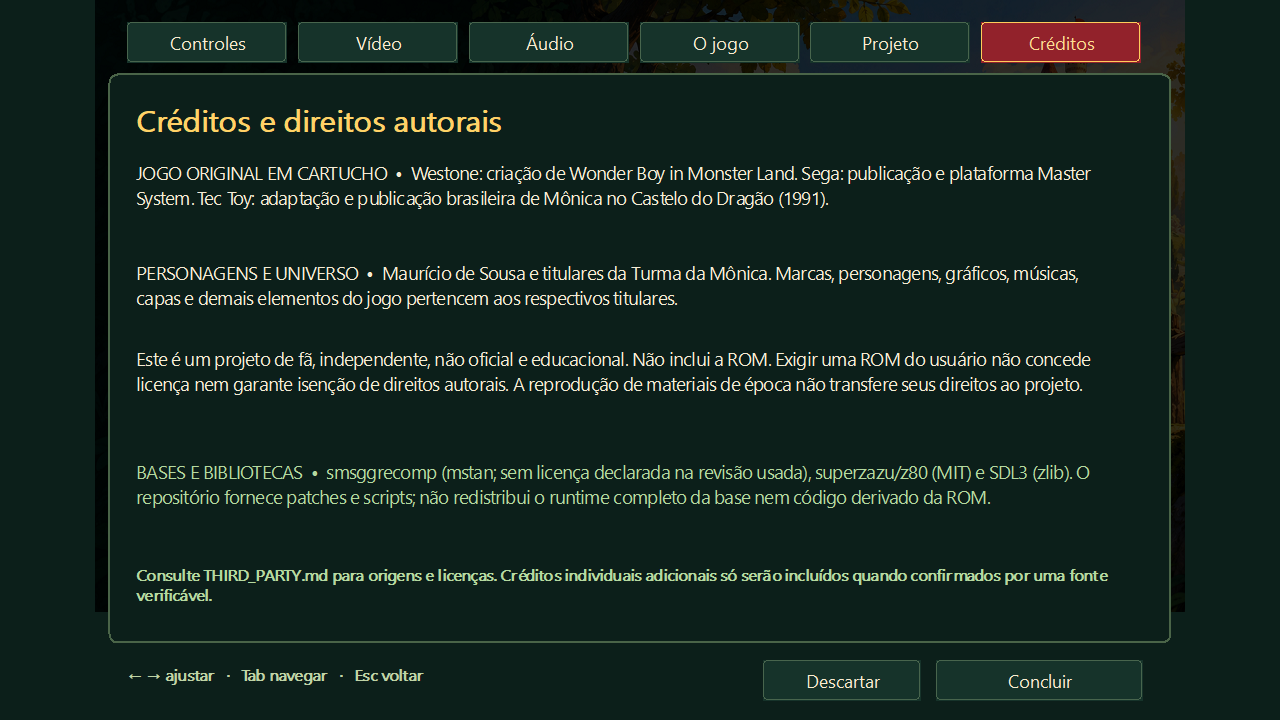
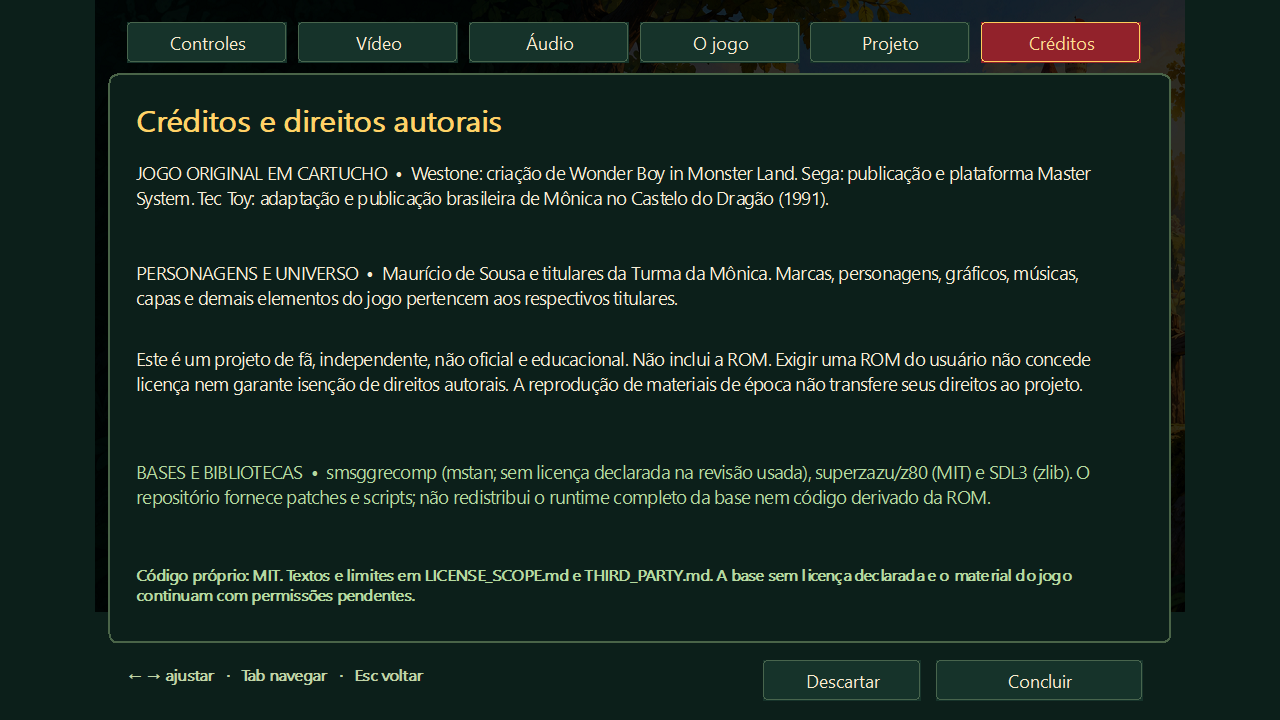
Cover directional input paths and document license scope and unresolved permissions

Changed region(s): [[0.0938, 0.7944, 0.875, 0.8556]]

diff --git a/src/app.c b/src/app.c
@@ -34,6 +34,7 @@ static HBRUSH background;
 static wchar_t rom_path[32768], root[32768], ini[32768], pending_load[32768];
 static Replay movie;
 static int running, paused, start_requested, quitting, restart_requested, slot=1, full_screen;
+static int session_ended;
 
 
 static uint32_t framebuffer[256*192];
@@ -254,7 +255,7 @@ static LRESULT CALLBACK window_proc(HWND hwnd,UINT msg,WPARAM wp,LPARAM lp){
     case WM_COMMAND:
         switch(LOWORD(wp)){
         case OPEN_ROM:if(!running)choose_rom();break;
-        case PLAY:if(!running && rom_ready){rom_ready=validate_rom(rom_path);if(rom_ready)start_requested=1;else navigation();}break;
+        case PLAY:if(!running && rom_ready){rom_ready=validate_rom(rom_path);if(rom_ready){pending_load[0]=0;start_requested=1;}else navigation();}break;
         case PAUSE:if(running)set_paused(!paused);break;
         case SAVE:if(running){set_paused(1);save_game();}break;
         case LOAD:if(running)set_paused(1);load_game();break;
@@ -393,13 +394,14 @@ int WINAPI wWinMain(HINSTANCE instance,HINSTANCE previous,PWSTR command,int show
     }else{ShowWindow(window,show);UpdateWindow(window);if(cfg.fullscreen)toggle_fullscreen();SetFocus(controls[rom_ready?0:4]);}
     while(!quitting){
         pump();if(start_requested){
+            if(session_ended){start_requested=0;if(restart_process())quitting=1;else message(L"Não foi possível iniciar uma nova sessão.");continue;}
             start_requested=0;if(!validate_rom(rom_path)){message(L"Escolha a ROM correta para iniciar.");continue;}
             if(pending_load[0]&&!replay_load(pending_load,&movie)){message(L"Save inválido ou incompatível.");pending_load[0]=0;continue;}
             if(!glue_load_rom_wide(rom_path)){message(L"Falha ao ler a ROM.");continue;}
             for(int i=0;i<MENU_COUNT;i++)ShowWindow(controls[i],SW_HIDE);EnableMenuItem(menu,OPEN_ROM,MF_BYCOMMAND|MF_GRAYED);EnableMenuItem(menu,PLAY,MF_BYCOMMAND|MF_GRAYED);
             SetFocus(window);running=1;paused=0;glue_init(false,0);glue_require_native(true);glue_set_audio_sink(audio_sink);glue_set_frame_callback(frame);audio_open();QueryPerformanceCounter(&deadline);glue_run_step();audio_close();running=0;
             if(restart_requested){if(restart_process())quitting=1;else{message(L"Não foi possível reiniciar para carregar o save.");restart_requested=0;}}
-            else if(!quitting){message(glue_dispatch_miss_count()?L"Foi encontrado um trecho ainda não recompilado. A sessão foi interrompida. Consulte runtime.log para completar a recompilação.":L"A execução terminou. Reinicie o aplicativo para uma nova sessão.");quitting=1;}
+            else if(!quitting){session_ended=1;paused=0;navigation();InvalidateRect(window,NULL,FALSE);message(glue_dispatch_miss_count()?L"Este trecho ainda não foi traduzido. A partida foi interrompida e os detalhes foram registrados em runtime.log. Seus saves existentes foram preservados.":L"A partida terminou. Você pode iniciar uma nova sessão pelo menu.");}
         }Sleep(10);
     }
     audio_close();replay_free(&movie);KillTimer(window,1);DestroyWindow(window);theme_close();if(present_dc){SelectObject(present_dc,present_old);DeleteObject(present_bitmap);DeleteDC(present_dc);}DeleteObject(font);DeleteObject(title_font);DeleteObject(background);input_close();return 0;

diff --git a/src/preferences.c b/src/preferences.c
@@ -232,7 +232,7 @@ static LRESULT CALLBACK procedure(HWND hwnd,UINT msg,WPARAM wp,LPARAM lp){
             draw_text(dc,40,253,950,68,L"PERSONAGENS E UNIVERSO  •  Maurício de Sousa e titulares da Turma da Mônica. Marcas, personagens, gráficos, músicas, capas e demais elementos do jogo pertencem aos respectivos titulares.",normal,RGB(245,236,212));
             draw_text(dc,40,337,950,95,L"Este é um projeto de fã, independente, não oficial e educacional. Não inclui a ROM. Exigir uma ROM do usuário não concede licença nem garante isenção de direitos autorais. A reprodução de materiais de época não transfere seus direitos ao projeto.",normal,RGB(245,236,212));
             draw_text(dc,40,447,950,85,L"BASES E BIBLIOTECAS  •  smsggrecomp (mstan; sem licença declarada na revisão usada), superzazu/z80 (MIT) e SDL3 (zlib). O repositório fornece patches e scripts; não redistribui o runtime completo da base nem código derivado da ROM.",normal,RGB(180,217,159));
-            draw_text(dc,40,549,950,55,L"Consulte THIRD_PARTY.md para origens e licenças. Créditos individuais adicionais só serão incluídos quando confirmados por uma fonte verificável.",caption,RGB(180,217,159));
+            draw_text(dc,40,549,950,55,L"Código próprio: MIT. Textos e limites em LICENSE_SCOPE.md e THIRD_PARTY.md. A base sem licença declarada e o material do jogo continuam com permissões pendentes.",caption,RGB(180,217,159));
         }
         SetMapMode(dc,MM_TEXT);SetViewportOrgEx(dc,0,0,NULL);BitBlt(screen,0,0,r.right,r.bottom,dc,0,0,SRCCOPY);SelectObject(dc,old);DeleteObject(bitmap);DeleteDC(dc);if(msg==WM_PAINT)EndPaint(hwnd,&ps);return 0;
     }

diff --git a/src/verify.c b/src/verify.c
@@ -13,6 +13,8 @@ static uint64_t audio_hash=UINT64_C(14695981039346656037);
 static void audio(const int16_t *p,size_t n){ audio_hash=monica_hash(p,n*4,audio_hash); }
 static uint8_t script(uint64_t f){
     if(getenv("MONICA_VERIFY_IDLE"))return 0;
+    const char *action=getenv("MONICA_VERIFY_ACTION");
+    if(action && f>=600 && f<1200)return (uint8_t)strtoul(action,NULL,0);
     if(f>=200 && f<210) return SMS_PAD_B1;
     if(f>=600 && f<900) return SMS_PAD_RIGHT;
     if(f>=950 && f<970) return SMS_PAD_B2|SMS_PAD_RIGHT;

diff --git a/README.md b/README.md
@@ -8,7 +8,7 @@ Um projeto de estudo de recompilação estática de um jogo de Master System par
 
 ![Menu](docs/images/menu.png)
 
-## Interface 0.6
+## Interface 0.7
 
 As configurações agora são páginas dentro da janela principal, com abas de Controles, Vídeo, Áudio, O jogo, Projeto e Créditos. A barra de menus do Windows foi removida. Os botões do menu ficam ocultos enquanto essas páginas estão abertas. Há transições de página, destaque de seleção, nova logo de fã inspirada na marca clássica da Mônica e ícone incorporado ao executável. Os seletores de valores são componentes próprios, ajustados por setas, mouse ou controle, sem listas do Windows em janelas separadas. Avisos de mapeamento e notificações são exibidos dentro da interface. Concluir aplica as alterações; Descartar preserva a configuração anterior.
 
@@ -19,6 +19,10 @@ As configurações agora são páginas dentro da janela principal, com abas de C
 ## Áudio e apresentação na versão 0.6
 
 A saída WinMM acumula blocos fixos de 10 ms e inicia com uma reserva de 20/40/60 ms conforme a opção de latência. Quando um buffer está ocupado, aguarda sua liberação em vez de descartar o trecho. O vídeo é composto fora da tela e apresentado em uma única cópia. Os rótulos de recompilação/projeto de estudo foram retirados do menu; o contexto continua em Sobre/Projeto/Créditos e nesta documentação.
+
+## Licenças e permissões
+
+As contribuições próprias usam MIT, com escopo e exclusões em [LICENSE_SCOPE.md](LICENSE_SCOPE.md). Os textos de SDL3 (zlib), HIDAPI (BSD) e superzazu/z80 (MIT) estão em LICENSES/. **Isso não licencia o jogo, suas marcas/imagens nem a base smsggrecomp, cuja revisão usada não declara licença.** Não há promessa de proteção por fair use. Existem permissões pendentes para afirmar que uma distribuição pública está juridicamente regularizada. Consulte [direitos e pendências](docs/DIREITOS.md).
 
 ## O jogo e sua origem
 
@@ -66,7 +70,7 @@ Requer Windows x64, PowerShell, Git, CMake e Clang/MinGW com `mingw32-make` no P
 ./test-local.ps1 -RomPath 'C:/caminho/Monica no Castelo do Dragao (Brazil).sms'
 ```
 
-O script prepara versões fixas das dependências, aplica os patches, gera o C a partir da ROM e compila localmente. A primeira preparação pode demorar vários minutos. O executável fica em **local-bin/v0.6/MonicaRecomp-v0.6.exe**; mantenha `SDL3.dll` e `assets` junto dele.
+O script prepara versões fixas das dependências, aplica os patches, gera o C a partir da ROM e compila localmente. A primeira preparação pode demorar vários minutos. O executável fica em **local-bin/v0.7/MonicaRecomp-v0.7.exe**; mantenha `SDL3.dll` e `assets` junto dele.
 
[1 lines of base64/hex data omitted]
 

diff --git a/docs/DIREITOS.md b/docs/DIREITOS.md
@@ -1,0 +1,26 @@
+# Direitos, atribuições e pendências
+
+## O que foi feito
+
+- MIT para contribuições próprias, com exclusões explícitas em LICENSE_SCOPE.md.
+- Textos originais das licenças SDL3, HIDAPI e superzazu/z80 preservados em LICENSES/.
+- Créditos do cartucho: Westone, Sega, Tec Toy e Maurício de Sousa/titulares da Turma da Mônica. Isso reconhece a origem; não transfere direitos nem implica aprovação.
+- ROM, executáveis derivados e código gerado excluídos da publicação. Não são oferecidos downloads da ROM.
+- Uso de IA nas ilustrações informado. Isso não elimina os direitos sobre personagens e marcas representados.
+
+## Fair use não é um certificado
+
+Nos Estados Unidos, o U.S. Copyright Office descreve fair use como uma análise caso a caso, com fatores relativos à finalidade, natureza da obra, quantidade utilizada e efeito no mercado. Finalidade educacional ou ausência de lucro, isoladamente, não garante o resultado. Fonte: https://www.copyright.gov/fair-use/more-info.html
+
+No Brasil, devem ser examinadas as normas aplicáveis ao caso, incluindo a Lei 9.609/1998 (software, especialmente art. 6º) e a Lei 9.610/1998 (direitos autorais, especialmente art. 46). Não se presume que a doutrina norte-americana conceda autorização para um projeto brasileiro.
+
+- https://www.planalto.gov.br/ccivil_03/leis/l9609.htm
+- https://www.planalto.gov.br/ccivil_03/leis/l9610.htm
+
+O GitHub também explica que tornar um código público não o transforma automaticamente em código livre: https://docs.github.com/en/repositories/managing-your-repositorys-settings-and-features/customizing-your-repository/licensing-a-repository
+
+## O que continua pendente
+
+O runtime/recompilador smsggrecomp está em revisão sem licença declarada. Não podemos aplicar MIT ao código do autor. A solução é obter uma concessão verificável ou substituir a dependência. Também não há concessão documentada para os elementos visuais e intelectuais do jogo. Uma alternativa para reduzir exposição é usar identidade e arte independentes de personagens/marcas de terceiros e manter somente materiais cuja publicação esteja autorizada; isso exige uma decisão de escopo do projeto.
+
+Antes de distribuir executáveis publicamente ou afirmar conformidade jurídica, é recomendável uma revisão por profissional habilitado na jurisdição relevante e resolver as permissões pendentes. Não foi anexado um aviso prometendo imunidade nem inventada uma licença em nome de titulares.

diff --git a/LICENSE_SCOPE.md b/LICENSE_SCOPE.md
@@ -1,0 +1,23 @@
+# Escopo das licenças
+
+A licença MIT em LICENSE cobre somente as contribuições próprias deste projeto, na medida em que seus contribuidores detenham direitos para concedê-la: arquivos em src/, scripts PowerShell, CMakeLists.txt e documentação original. Referências, citações e conteúdo de terceiros permanecem sob seus próprios termos.
+
+Não são abrangidos por essa concessão: ROM; código ou dados derivados do jogo; código gerado; smsggrecomp e seu runtime; trechos/contexto de terceiros nos patches; marcas, personagens, música, sprites, capas, anúncios, screenshots e ilustrações/adaptações de fã em assets/ ou docs/images/. Não se concede direito sobre esses elementos por incluí-los no repositório. Uma licença da página que hospeda uma imagem tampouco concede automaticamente os direitos sobre o jogo retratado.
+
+## Dependências com licença identificada
+
+| Componente | Licença | Texto preservado |
+|---|---|---|
+| SDL3 | zlib | LICENSES/SDL3-zlib.txt |
+| HIDAPI incluída na SDL | alternativa BSD de três cláusulas escolhida | LICENSES/HIDAPI-BSD-3-Clause.txt |
+| superzazu/z80 | MIT, Nicolas Allemand | LICENSES/superzazu-z80-MIT.txt |
+
+As atribuições não afirmam endosso dos autores. Alterações locais ao smsggrecomp são identificadas pelos patches. Os textos acompanham também o build local; sua presença não resolve direitos de outros componentes.
+
+## Pendências que uma licença própria não resolve
+
+1. smsggrecomp: o README da revisão 224d5bb2c150a2c295033d35dec629ef9ee42940 diz que a licença ainda não foi declarada. Baixar a base diretamente ou fornecer patches não equivale a obter autorização para todos os usos. É necessário obter permissão adequada do autor ou substituí-la por uma base licenciada antes de afirmar que a distribuição está regularizada.
+2. Jogo e identidade: não há autorização documentada dos titulares para ROM, código, personagens, marca, artes históricas ou adaptações visuais. Não foi declarada uma licença Creative Commons sobre esse material.
+3. Não há uma licença genérica de fair use que este projeto possa conceder. A avaliação de uma exceção legal depende do uso e da jurisdição.
+
+Não há garantia de ausência de reclamações, remoção do repositório ou responsabilidade. Esta documentação registra o estado verificado, não constitui parecer jurídico. Veja docs/DIREITOS.md para fontes e próximos passos.

diff --git a/docs/VALIDATION.md b/docs/VALIDATION.md
@@ -36,3 +36,7 @@ Nova logo transparente renderizada pelo WIC em BGRA pré-multiplicado, composta 
 ## Revisão 0.6 — saída audiovisual
 
 Teste silencioso contra a saída WinMM real: 100 lotes de 3.733 frames de origem, entregues em dois fragmentos por lote, sem espera artificial do produtor. O caminho de liberação dos buffers foi exercitado por pressão da fila. Produção e envio coincidiram em 44.100 Hz (73.585), 48.000 Hz (80.092) e 96.000 Hz (160.185), sem falha. Esse teste verifica contagem e envio; não comprova qualidade audível da música nem ausência de underruns em todos os drivers. Saves, controles e navegação integrada também passaram novamente. A apresentação do jogo agora compõe o fundo e a imagem em um buffer persistente e faz uma única cópia para a janela; falta avaliação perceptiva durante uma partida na máquina do usuário.
+
+## Revisão 0.7 — direções e botões
+
+Reproduzido no build anterior: pressionar cima entre os quadros 600 e 1200 causava dispatch ausente em 0x1942 no quadro 600. O perfil nativo passou de 4.986 para 5.010 endereços por banco. Foram testadas as máscaras 1, 2, 4, 8, 16, 32, 17, 33, 5, 9, 18 e 40 até o quadro 2400. Todos os roteiros nativos completaram com zero misses; framebuffer final e áudio acumulado coincidiram com o intérprete sobre o mesmo runtime. Isso não comprova cobertura de todas as fases. O aplicativo agora retorna ao menu se outra rota ainda não traduzida interromper a partida. Saves, controles e navegação integrada também passaram novamente.

diff --git a/THIRD_PARTY.md b/THIRD_PARTY.md
@@ -27,3 +27,7 @@
 ROM, personagens, artes, marcas e código original do jogo continuam sujeitos aos seus direitos. Finalidade educacional e exigência de ROM própria não criam uma licença automática. Não foi atribuída uma licença geral que pretenda cobrir os componentes de terceiros.
 
 - Logo do título: title-logo.png é uma nova adaptação de fã feita com ImageGen, inspirada na marca clássica e nas referências fornecidas pelo usuário. Não é uma logo oficial. O prompt está em assets/title-logo-prompt.txt. A marca e os elementos originais continuam pertencendo aos respectivos titulares. app-icon.png/app.ico: nova ilustração de fã feita pelo ImageGen integrado; não é um ícone oficial. O prompt está em assets/icon-art-prompt.txt.
+
+## Textos de licença e escopo
+
+Contribuições próprias: LICENSE (MIT), sujeito a LICENSE_SCOPE.md. SDL3: LICENSES/SDL3-zlib.txt; HIDAPI: alternativa BSD escolhida, LICENSES/HIDAPI-BSD-3-Clause.txt; superzazu/z80: LICENSES/superzazu-z80-MIT.txt. A base smsggrecomp continua com autorização pendente. Consulte docs/DIREITOS.md. Esses documentos não concedem direitos sobre personagens, marcas ou o cartucho.
